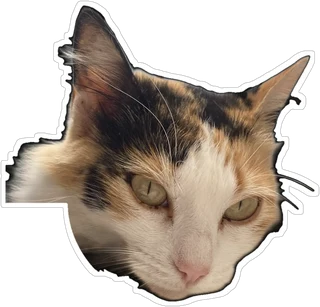
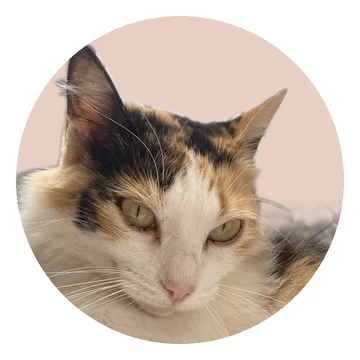
Links: esteira de marcas de ponta a ponta, espaço nas fotos de infância, figurinhas redondas dos bichos
Claude-Session: https://claude.ai/code/session_01JJzwKmvC96HGkRzqWkPA92

diff --git a/links/index.html b/links/index.html
@@ -251,8 +251,8 @@
     .figurinhas { display: flex; gap: 22px; justify-content: center; margin-top: 16px; }
     .figurinha { margin: 0; display: grid; justify-items: center; gap: 2px; }
     .figurinha .bicho {
-      width: 88px; height: 88px; object-fit: contain;
-      filter: drop-shadow(0 6px 8px rgba(53,1,7,.3));
+      width: 92px; height: 92px; object-fit: contain; border-radius: 50%;
+      filter: drop-shadow(0 6px 8px rgba(53,1,7,.28));
       transition: transform .2s ease;
     }
     .figurinha:nth-child(1) .bicho { transform: rotate(-8deg); }
@@ -350,7 +350,7 @@
 
       /* marcas */
       .marcas-titulo { font-size: 2rem; }
-      .esteira { margin: 10px 0 0; padding: 11px 0; }
+      .esteira { margin: 14px calc(50% - 50vw - 20px) 0; padding: 12px 0; }
       .esteira-trilho span { font-size: 1.6rem; }
 
       /* make artística */
@@ -385,7 +385,7 @@
       .numero span { margin-top: 0; }
 
       /* linha do tempo: linha no meio, cards alternando os lados */
-      .cabeca-tempo { text-align: center; padding-top: 14px; }
+      .cabeca-tempo { text-align: center; padding-top: 14px; min-height: 300px; }
       .cabeca-tempo .fotinhos { position: absolute; inset: 0 0 auto 0; margin: 0; justify-content: space-between; pointer-events: none; }
       .cabeca-tempo .fotinhos .polaroid { width: 170px; max-width: none; pointer-events: auto; }
       .cabeca-tempo .fotinhos .polaroid:first-child { transform: rotate(-7deg); }
@@ -413,7 +413,7 @@
       .bastidores { grid-template-columns: auto 1fr auto; }
       .bastidores h3 { grid-row: auto; }
       .bastidores .figurinhas { margin-top: 0; }
-      .figurinha .bicho { width: 104px; height: 104px; }
+      .figurinha .bicho { width: 110px; height: 110px; }
 
       /* contato centralizado, botões em linha */
       .contato { margin: 90px calc(50% - 50vw) 0; padding: 64px 32px 30px; }
